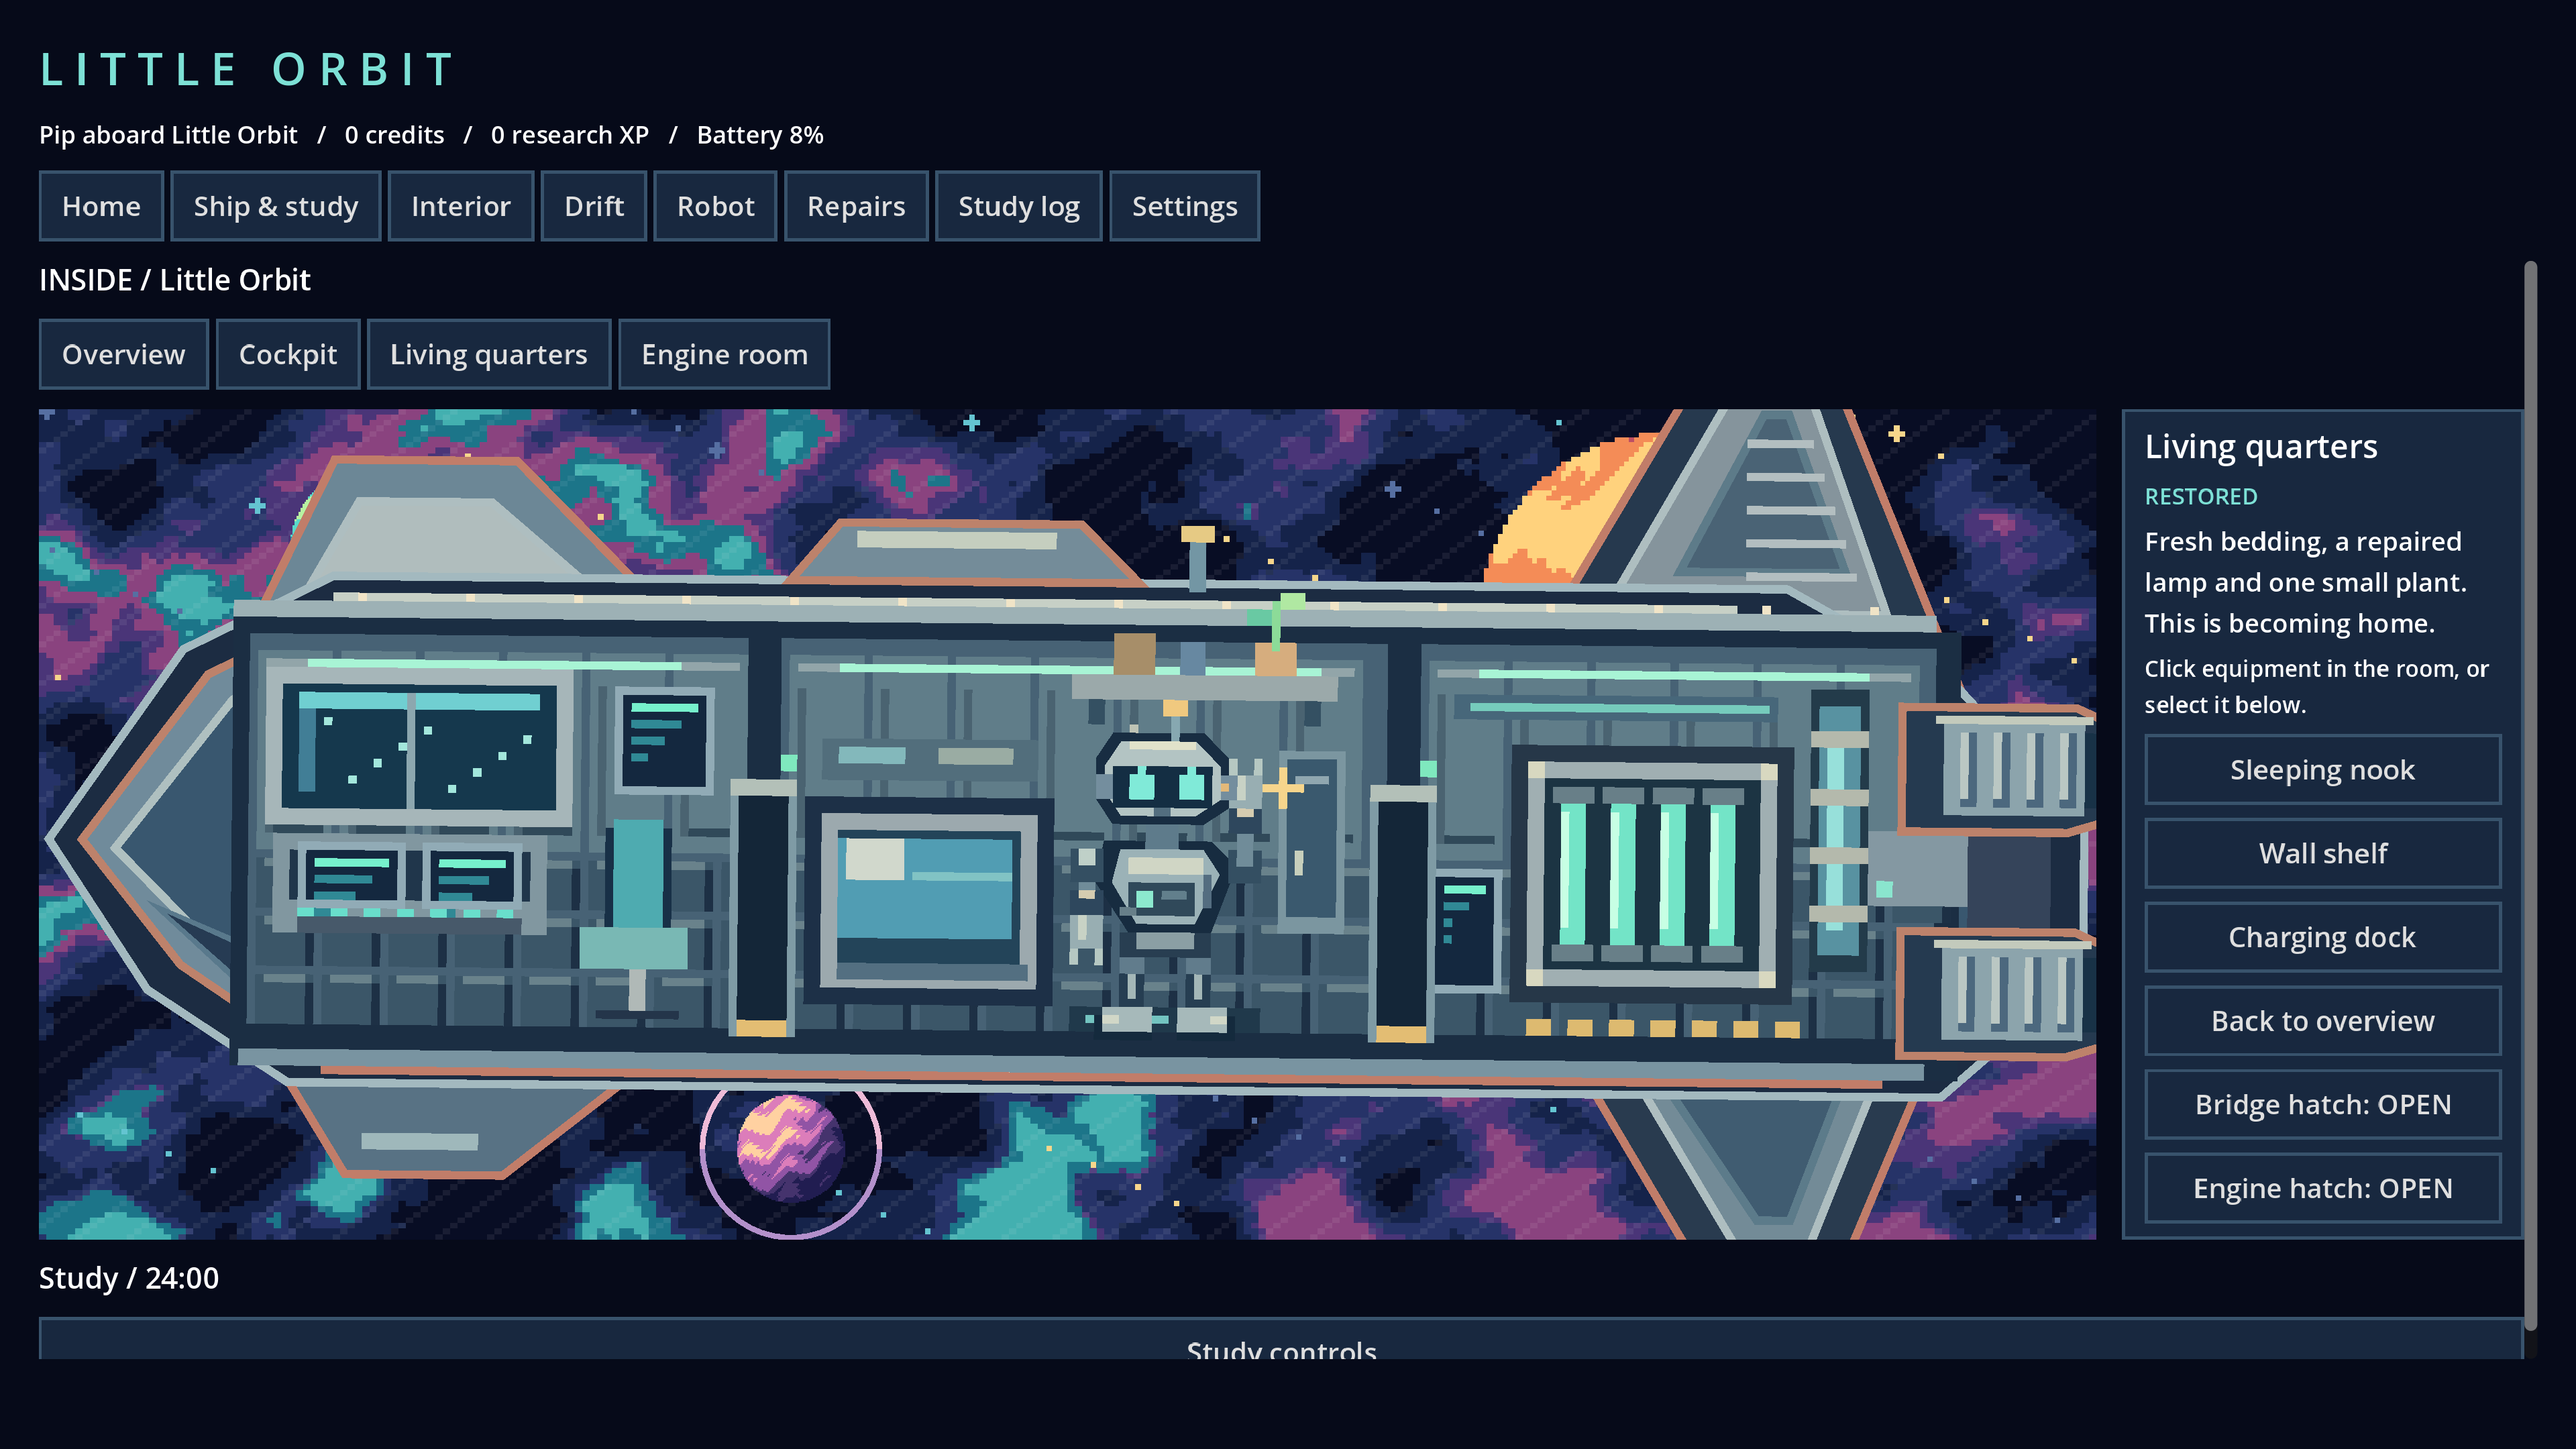
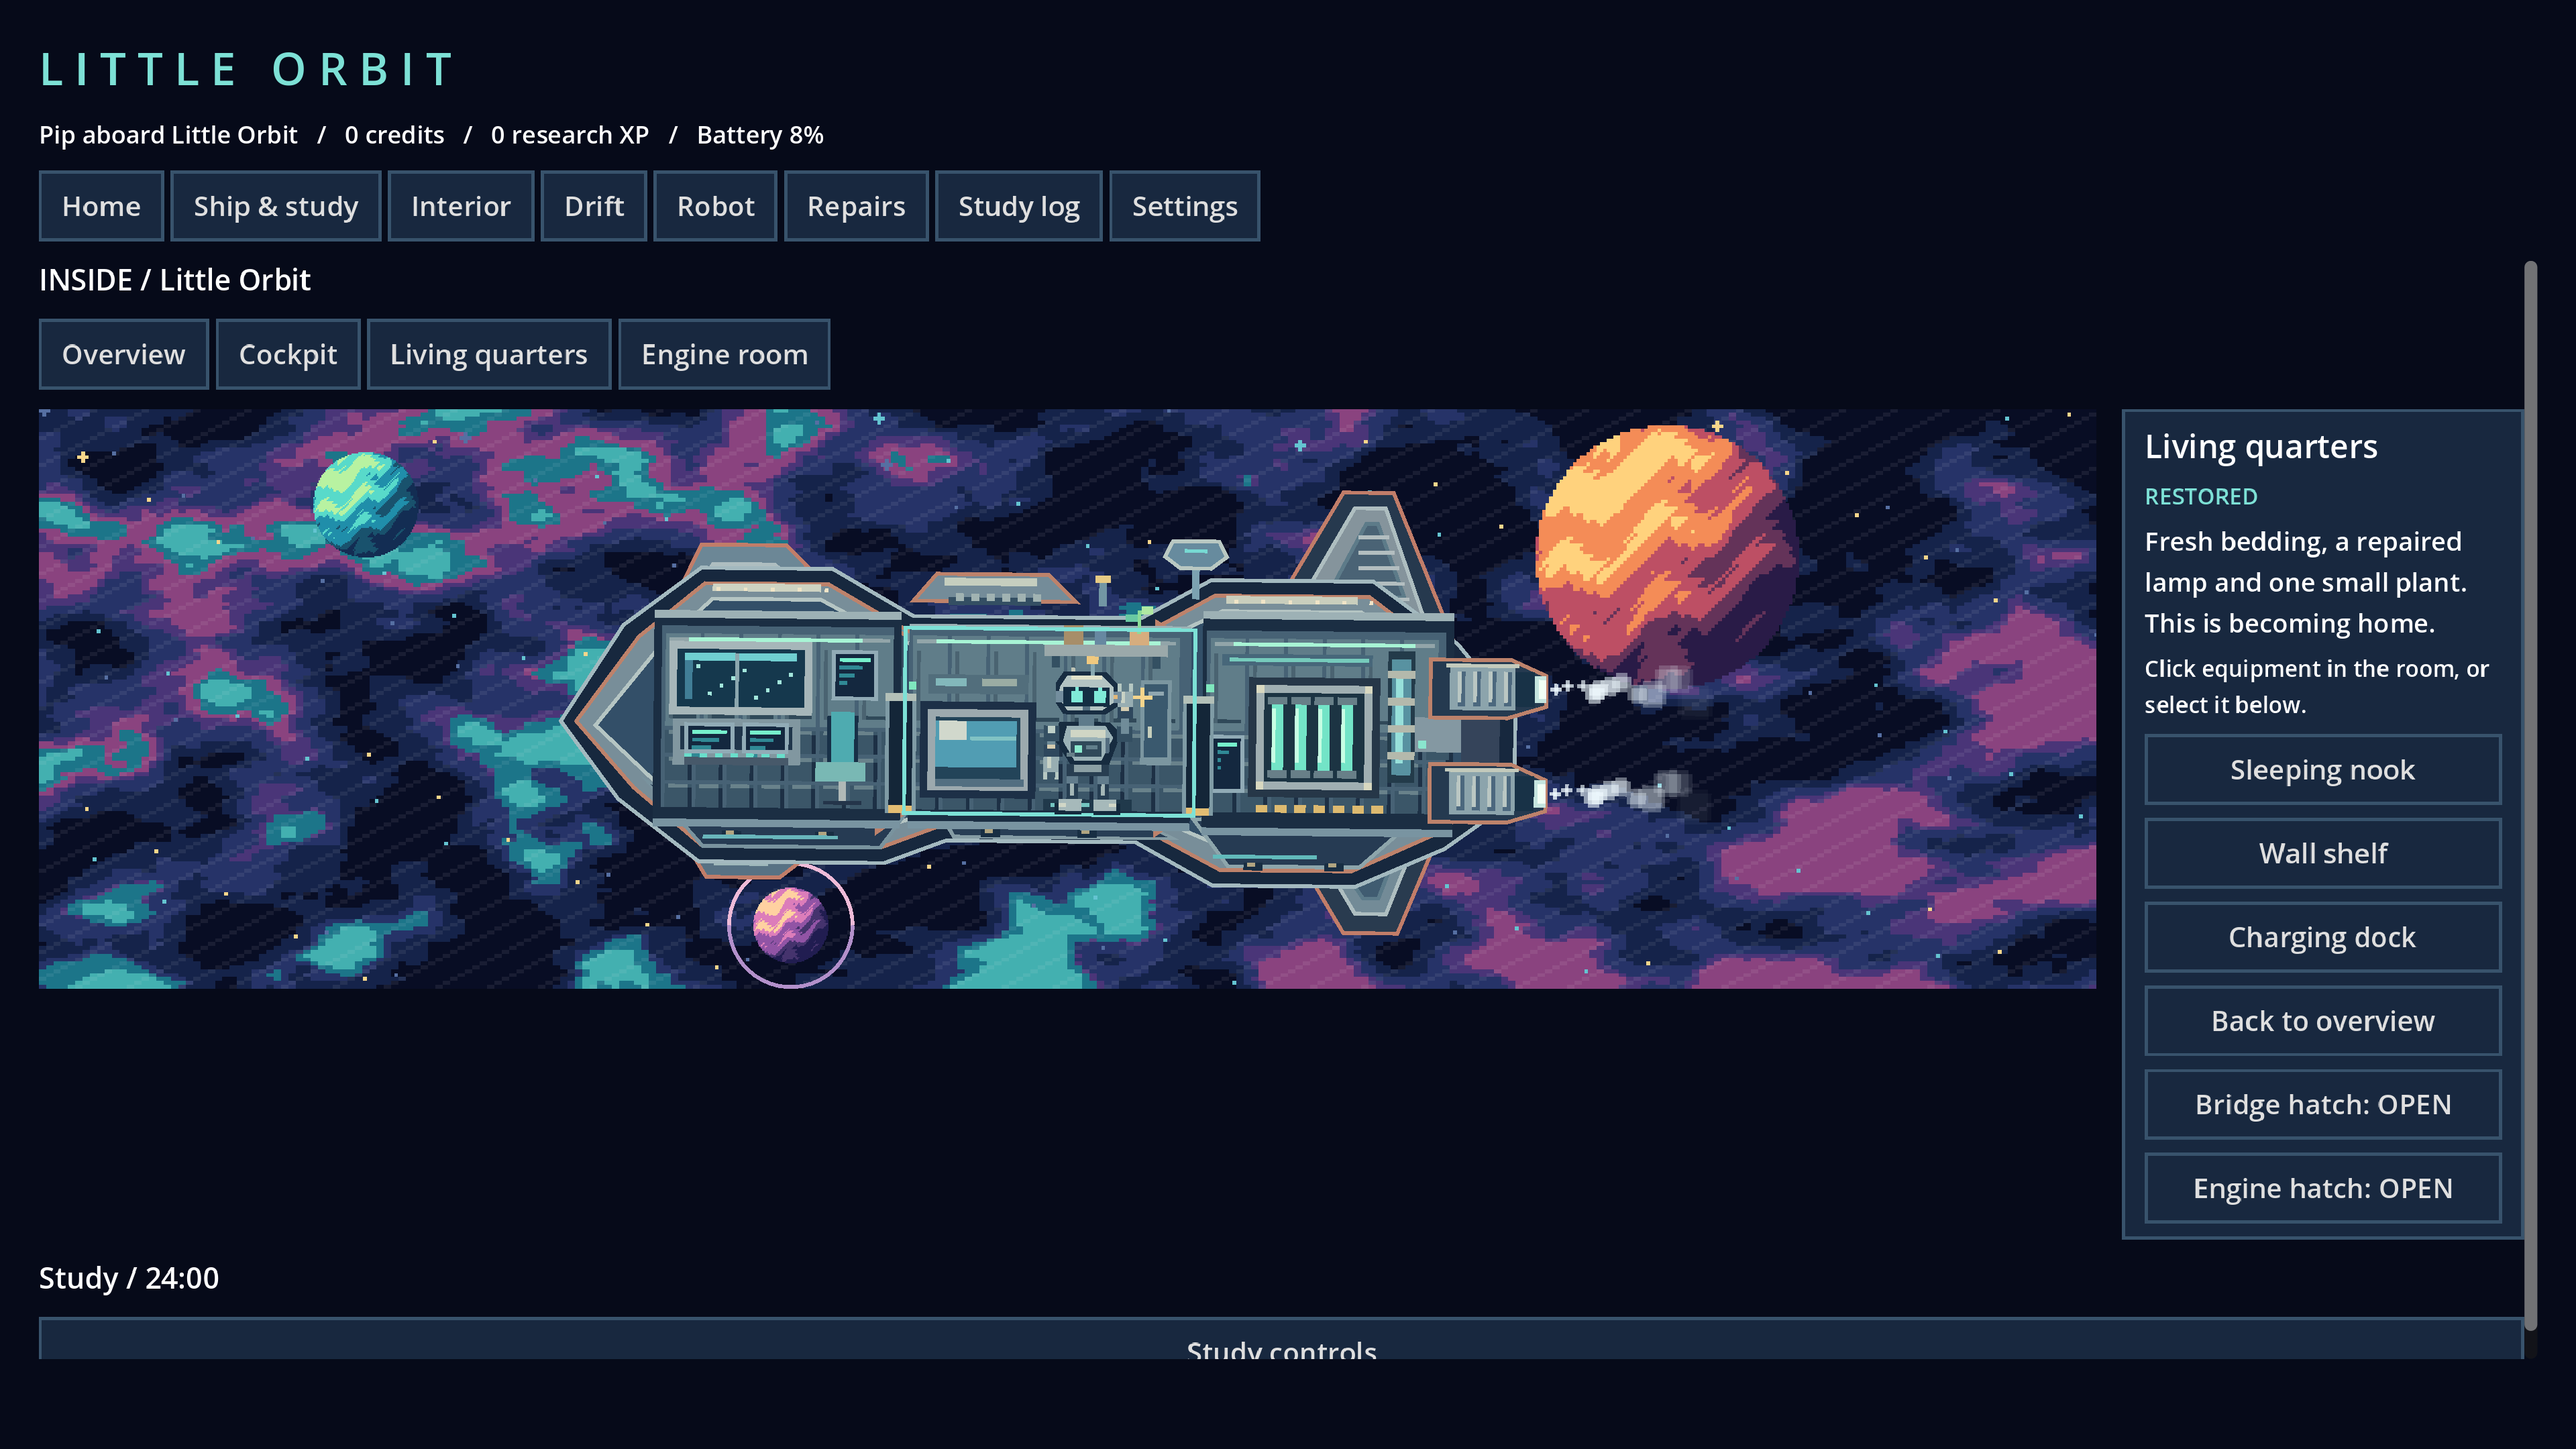
Keep the full ship visible on room selection and detail distinct hull volumes

diff --git a/docs/PROTOTYPE.md b/docs/PROTOTYPE.md
@@ -8,7 +8,7 @@ For the larger standalone window on this PC, double-click `PLAY-GAME.cmd` in the
 
 Names now autosave after a short typing pause, on leaving the form, and on clean exit. Enter or the form button saves and continues. New-game setup is marked complete only by continuing. A failed save is shown on the form rather than reporting success.
 
-Room framing now uses a wider 176×100 camera region instead of the previous 112×60 close-up. Selecting a room automatically moves the companion into it with a stepping animation. Hatches on the route open automatically; this requires no player movement input and changes no study rewards.
+Room selection keeps the complete 280×150 ship view at the same scale. The inspector no longer stretches the drawing area and enlarges the ship. A cyan outline identifies the selected room while its equipment appears in the inspector. Selecting a room automatically moves the companion into it with a stepping animation. Hatches on the route open automatically; this requires no player movement input and changes no study rewards.
 
 1. Install Godot 4.4 or newer, standard edition (no .NET required).
 2. In the project manager choose **Import**, select `project.godot`, then **Import & Edit**.
@@ -16,7 +16,7 @@ Room framing now uses a wider 176×100 camera region instead of the previous 112
 4. Choose **Begin your journey**, name your robot and ship, then start a session.
 5. Choose 25/45/60/90/120 minutes or type a custom whole-minute duration from 1–240. A completed 25-minute session earns 50 credits: open **Repairs** to restore the engine. The engine room and exhaust visibly light up.
 6. For a quick manual check use a custom **1 minute** session. Pause, resume, and try the compact window while studying in another application.
-7. Click a room in the ship or use the room buttons. The view smoothly zooms in; select object buttons to inspect the room. Scroll down if necessary to see the full room panel. Choose **Back to overview** to zoom out.
+7. Click a room in the ship or use the room buttons. The full ship remains visible and the room is highlighted; select equipment in the scene or its buttons to inspect it. Scroll down if necessary to see the full room panel. Choose **Back to overview** to clear the selection.
 8. Restore living quarters for 40 credits, the engine for 50, or the cockpit for 60. Each path is available immediately. View your companion's battery, expression and charging dock on **Robot**.
 9. Open **Drift** for a colorful exterior view: the hull gently rocks, soft white exhaust disperses, and shaded orange, turquoise and violet planets pass at different speeds. Your running study session continues and its status stays visible. Return to **Ship & study** to use the timer controls.
 10. Open **Interior** for the larger ship cutaway. Pick a room, then click the drawn equipment itself or its corresponding inspector button. Click either bulkhead hatch (or its sidebar button) to slide its shutters open/closed. Hatches are optional visual interactions and reset open when the view is recreated; purchased restoration states remain saved.
@@ -25,12 +25,12 @@ The compact timer is a separate native, always-on-top window. Closing it hides i
 
 ## Included
 
-- Main menu, first-run naming, overview/study screen, interactive room close-up, robot status, repair shop, study log, settings.
+- Main menu, first-run naming, overview/study screen, whole-ship room inspector, robot status, repair shop, study log, settings.
 - Countdown based on monotonic elapsed milliseconds, independent of frame rate and system date changes; keeps counting while minimized. Pause/resume/cancel, reward estimates, completion chime and window attention request.
 - Configurable credits (2/min), research XP (1/min), battery recharge (1%/min, capped at 100%). No passive depletion or missed-day penalties.
 - Three room repairs with centralized prices, requirements, ownership, insufficient-funds handling and linked visual states. Existing Phase 1 saves remain compatible without migration.
 - Original procedurally drawn pixel ship cutaway with three rooms, layered drifting stars and a dithered nebula. Rooms visibly lose rust and gain steady lighting as they are restored. The cockpit gains navigation lights and clean glass; quarters gain fresh bedding, a lamp and plant; the engine gains glowing coils and exhaust.
-- Clickable rooms, hover outlines, smooth interruptible zoom, overview return, keyboard-accessible room and object buttons, and nine object descriptions that change with restoration.
+- Clickable rooms, hover/selection outlines, stable overview framing, keyboard-accessible room and object buttons, and nine object descriptions that change with restoration.
 - Robot sad/idle expressions, blinking, charging-dock pulses during running study, a four-second completion celebration and a brief repair reaction. Artwork is isolated and replaceable. Charging animation is cosmetic: battery rewards remain completion-only.
 - Versioned JSON save, defaults, type validation, temporary-file replacement and validated previous-snapshot backup. Saves every ten seconds during sessions and on state changes/clean exit.
 

diff --git a/docs/VALIDATION.md b/docs/VALIDATION.md
@@ -1,5 +1,13 @@
 # Phases 1–2 validation
 
+## Whole-ship selection and detailed body update
+
+Room selection now retains the exact 280×150 overview camera. The ship drawing area's height is also kept independent of the inspector, eliminating the indirect enlargement caused by a taller selection panel. The selected room receives a cyan outline; its inspector and the companion follow the selection.
+
+The hull has distinct raised bridge and reactor volumes around a narrower waist, separate belly plates, frame collars, service lines, radiator vanes, docking sockets, navigation lights and a small communications dish. Exterior panels distinguish living quarters from the reactor access casing. Cutaway views share this shaped chassis rather than a continuous rectangular outer border.
+
+The strict graphical run passed editor import and **124 assertions** with no script errors (25 game + 10 UI + 35 rooms + 16 interior + 15 drift + 23 usability). The three added assertions verify actual rendered transform scale stays unchanged after selecting each room, in addition to full camera bounds and robot visibility. Results are in `full-ship-check-results.json`; current screenshots were regenerated and inspected.
+
 ## Larger window, name persistence and room-following fixes
 
 The full strict graphical run passed **121 assertions** and editor import with no GDScript compile/runtime diagnostics. Per-suite results are in `usability-check-results.json`. This includes the existing 101 assertions plus 20 usability checks.
